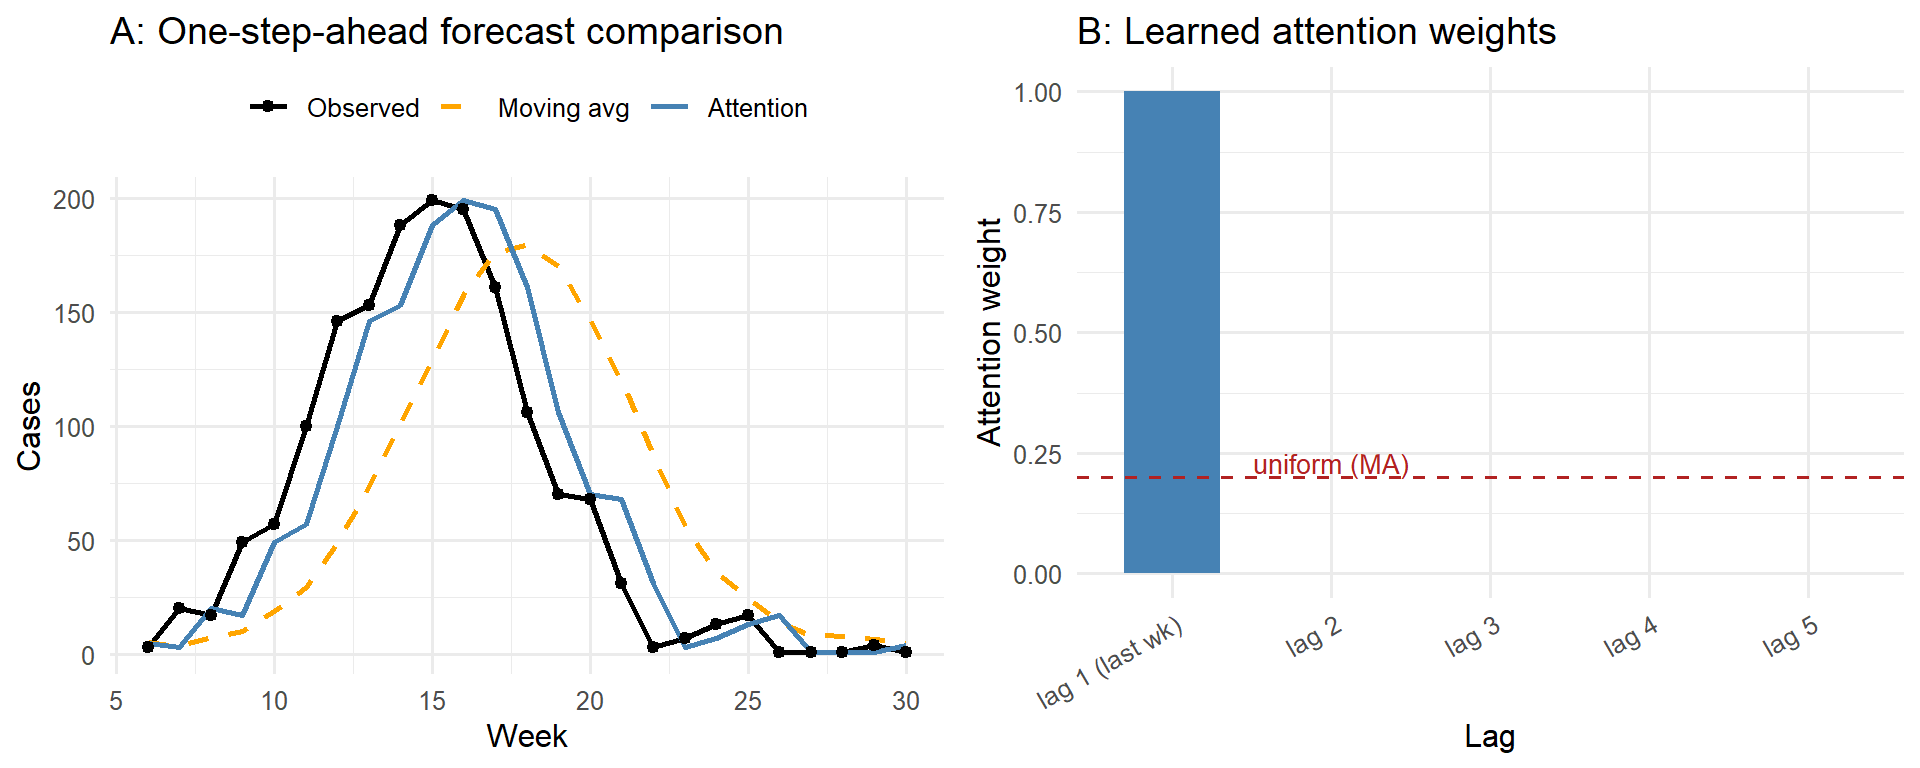
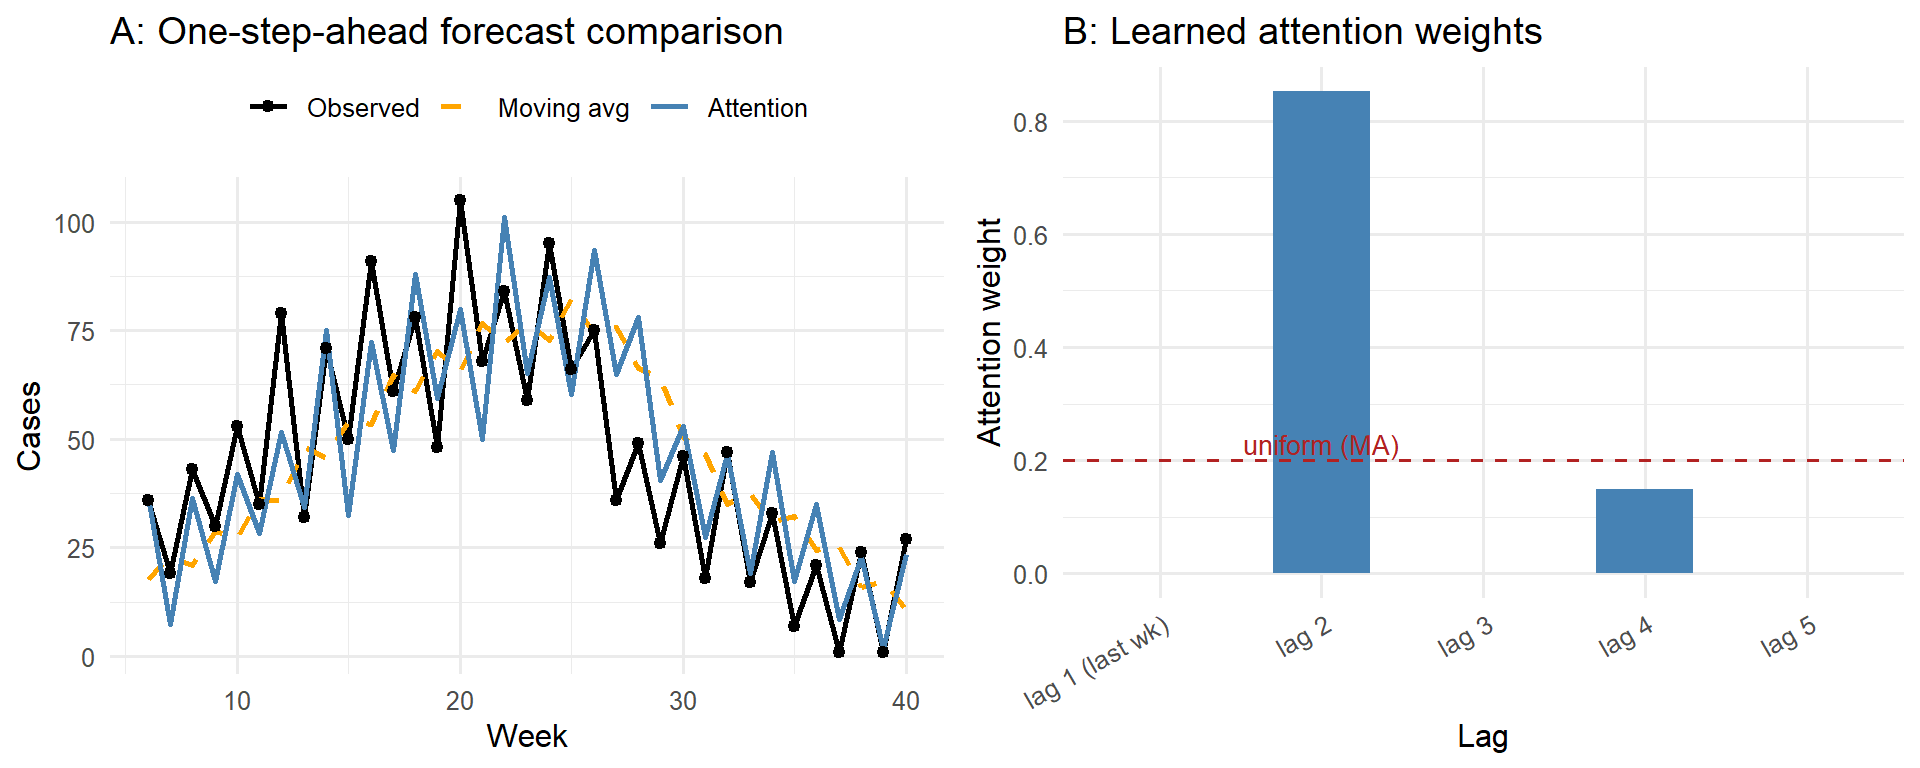
Redesign ml_attention example to show non-trivial attention weights
The previous smooth bell curve collapsed to a degenerate lag-1 solution
(equivalent to a k=1 naive forecast), making the attention mechanism
uninteresting. New series combines an epidemic envelope with a 2-week
alternating cycle (reporting rhythm / incubation echo). Odd lags are
anti-phase and correctly receive zero weight; even lags (2, 4) are
in-phase and share the weight. The moving average wastes weight on
anti-phase lags and is therefore a worse predictor — a meaningful
contrast that justifies the mechanism.

Also reduces learning rate 0.5 → 0.08 and increases iterations to 3000
to keep the optimizer in the interior of the simplex.

diff --git a/docs/blog/posts/ml_attention/index.html b/docs/blog/posts/ml_attention/index.html
@@ -452,38 +452,50 @@ window.Quarto = {
 <h2 data-number="2" class="anchored" data-anchor-id="the-prediction-problem"><span class="header-section-number">2</span> The prediction problem</h2>
 <p>An epidemic time series has temporal structure: next week’s case count depends on recent weeks, but not all weeks equally. The key question is <strong>which past weeks matter most</strong>, and by how much.</p>
 <p>The simplest forecaster is a <strong>moving average</strong> (MA): predict next week as the mean of the last <span class="math inline">\(k\)</span> weeks. This treats all lags equally. Attention learns a <em>weighted</em> average where the weights are optimised to minimise prediction error.</p>
-<p>To make this concrete, we generate a 30-week epidemic curve and set up a <strong>one-step-ahead forecasting task</strong>: given the last <span class="math inline">\(k = 5\)</span> weeks, predict the next week’s case count.</p>
+<p>To make this concrete, we generate a 40-week epidemic series and set up a <strong>one-step-ahead forecasting task</strong>: given the last <span class="math inline">\(k = 5\)</span> weeks, predict the next week’s case count.</p>
+<p>The series is constructed so that <strong>both lag 1 and lag 2 carry genuine predictive information</strong>. Many respiratory pathogens have an incubation period of roughly two weeks, so today’s reported cases reflect both recent transmission (lag 1) and infections acquired two weeks ago (lag 2). We embed this structure explicitly: the series is the sum of a slow-moving epidemic envelope and a two-week alternating cycle (high week / low week), mimicking a reporting rhythm or biological echo. Lag 2 is in phase with the current week (both land on the same high or low week), while lag 1 is out of phase — making <em>both</em> lags necessary for a good forecast.</p>
 <div class="cell">
 <details class="code-fold">
 <summary>Code</summary>
 <div class="code-copy-outer-scaffold"><div class="sourceCode cell-code" id="cb1"><pre class="sourceCode r code-with-copy"><code class="sourceCode r"><span id="cb1-1"><a href="#cb1-1" aria-hidden="true" tabindex="-1"></a><span class="fu">set.seed</span>(<span class="dv">42</span>)</span>
 <span id="cb1-2"><a href="#cb1-2" aria-hidden="true" tabindex="-1"></a></span>
-<span id="cb1-3"><a href="#cb1-3" aria-hidden="true" tabindex="-1"></a><span class="co"># 30-week epidemic curve (rise to peak at week 15, then decline)</span></span>
-<span id="cb1-4"><a href="#cb1-4" aria-hidden="true" tabindex="-1"></a>t_seq <span class="ot">&lt;-</span> <span class="dv">1</span><span class="sc">:</span><span class="dv">30</span></span>
-<span id="cb1-5"><a href="#cb1-5" aria-hidden="true" tabindex="-1"></a>cases <span class="ot">&lt;-</span> <span class="fu">round</span>(<span class="dv">200</span> <span class="sc">*</span> <span class="fu">exp</span>(<span class="sc">-</span>((t_seq <span class="sc">-</span> <span class="dv">15</span>)<span class="sc">^</span><span class="dv">2</span>) <span class="sc">/</span> <span class="dv">20</span>) <span class="sc">+</span> <span class="fu">rnorm</span>(<span class="dv">30</span>, <span class="dv">0</span>, <span class="dv">8</span>))</span>
-<span id="cb1-6"><a href="#cb1-6" aria-hidden="true" tabindex="-1"></a>cases <span class="ot">&lt;-</span> <span class="fu">pmax</span>(<span class="dv">1</span>, cases)</span>
-<span id="cb1-7"><a href="#cb1-7" aria-hidden="true" tabindex="-1"></a></span>
-<span id="cb1-8"><a href="#cb1-8" aria-hidden="true" tabindex="-1"></a>k <span class="ot">&lt;-</span> <span class="dv">5</span>   <span class="co"># look-back window (how many past weeks to use)</span></span>
-<span id="cb1-9"><a href="#cb1-9" aria-hidden="true" tabindex="-1"></a></span>
-<span id="cb1-10"><a href="#cb1-10" aria-hidden="true" tabindex="-1"></a><span class="co"># Sliding-window dataset: each row = one prediction step</span></span>
-<span id="cb1-11"><a href="#cb1-11" aria-hidden="true" tabindex="-1"></a>n_pred <span class="ot">&lt;-</span> <span class="fu">length</span>(cases) <span class="sc">-</span> k</span>
-<span id="cb1-12"><a href="#cb1-12" aria-hidden="true" tabindex="-1"></a>X_mat  <span class="ot">&lt;-</span> <span class="fu">do.call</span>(rbind, <span class="fu">lapply</span>(</span>
-<span id="cb1-13"><a href="#cb1-13" aria-hidden="true" tabindex="-1"></a>  (k <span class="sc">+</span> <span class="dv">1</span>)<span class="sc">:</span><span class="fu">length</span>(cases),</span>
-<span id="cb1-14"><a href="#cb1-14" aria-hidden="true" tabindex="-1"></a>  <span class="cf">function</span>(i) <span class="fu">rev</span>(cases[(i <span class="sc">-</span> k)<span class="sc">:</span>(i <span class="sc">-</span> <span class="dv">1</span>)])</span>
-<span id="cb1-15"><a href="#cb1-15" aria-hidden="true" tabindex="-1"></a>))                                      <span class="co"># (n_pred, k) — col 1 = lag 1 (most recent)</span></span>
-<span id="cb1-16"><a href="#cb1-16" aria-hidden="true" tabindex="-1"></a>y_vec  <span class="ot">&lt;-</span> cases[(k <span class="sc">+</span> <span class="dv">1</span>)<span class="sc">:</span><span class="fu">length</span>(cases)] <span class="co"># (n_pred,)   — next-week targets</span></span>
-<span id="cb1-17"><a href="#cb1-17" aria-hidden="true" tabindex="-1"></a></span>
-<span id="cb1-18"><a href="#cb1-18" aria-hidden="true" tabindex="-1"></a><span class="fu">cat</span>(<span class="st">"Forecasting steps:"</span>, n_pred, <span class="st">"</span><span class="sc">\n</span><span class="st">"</span>)</span></code></pre></div><button title="Copy to Clipboard" class="code-copy-button"><i class="bi"></i></button></div>
+<span id="cb1-3"><a href="#cb1-3" aria-hidden="true" tabindex="-1"></a>n     <span class="ot">&lt;-</span> <span class="dv">40</span></span>
+<span id="cb1-4"><a href="#cb1-4" aria-hidden="true" tabindex="-1"></a>t_seq <span class="ot">&lt;-</span> <span class="dv">1</span><span class="sc">:</span>n</span>
+<span id="cb1-5"><a href="#cb1-5" aria-hidden="true" tabindex="-1"></a></span>
+<span id="cb1-6"><a href="#cb1-6" aria-hidden="true" tabindex="-1"></a><span class="co"># Slow-moving epidemic envelope (peaks at week 20)</span></span>
+<span id="cb1-7"><a href="#cb1-7" aria-hidden="true" tabindex="-1"></a>envelope <span class="ot">&lt;-</span> <span class="dv">70</span> <span class="sc">*</span> <span class="fu">exp</span>(<span class="sc">-</span>((t_seq <span class="sc">-</span> <span class="dv">20</span>)<span class="sc">^</span><span class="dv">2</span>) <span class="sc">/</span> <span class="dv">80</span>) <span class="sc">+</span> <span class="dv">15</span></span>
+<span id="cb1-8"><a href="#cb1-8" aria-hidden="true" tabindex="-1"></a></span>
+<span id="cb1-9"><a href="#cb1-9" aria-hidden="true" tabindex="-1"></a><span class="co"># 2-week alternating cycle: high/low weeks (reporting rhythm or incubation echo)</span></span>
+<span id="cb1-10"><a href="#cb1-10" aria-hidden="true" tabindex="-1"></a>biweekly <span class="ot">&lt;-</span> <span class="dv">15</span> <span class="sc">*</span> <span class="fu">cos</span>(pi <span class="sc">*</span> t_seq)   <span class="co"># +15 on odd weeks, -15 on even weeks</span></span>
+<span id="cb1-11"><a href="#cb1-11" aria-hidden="true" tabindex="-1"></a></span>
+<span id="cb1-12"><a href="#cb1-12" aria-hidden="true" tabindex="-1"></a><span class="co"># Small AR(1) noise</span></span>
+<span id="cb1-13"><a href="#cb1-13" aria-hidden="true" tabindex="-1"></a>noise <span class="ot">&lt;-</span> <span class="fu">numeric</span>(n)</span>
+<span id="cb1-14"><a href="#cb1-14" aria-hidden="true" tabindex="-1"></a>noise[<span class="dv">1</span>] <span class="ot">&lt;-</span> <span class="fu">rnorm</span>(<span class="dv">1</span>, <span class="dv">0</span>, <span class="dv">7</span>)</span>
+<span id="cb1-15"><a href="#cb1-15" aria-hidden="true" tabindex="-1"></a><span class="cf">for</span> (t <span class="cf">in</span> <span class="dv">2</span><span class="sc">:</span>n) noise[t] <span class="ot">&lt;-</span> <span class="fl">0.20</span> <span class="sc">*</span> noise[t <span class="sc">-</span> <span class="dv">1</span>] <span class="sc">+</span> <span class="fu">rnorm</span>(<span class="dv">1</span>, <span class="dv">0</span>, <span class="dv">7</span>)</span>
+<span id="cb1-16"><a href="#cb1-16" aria-hidden="true" tabindex="-1"></a></span>
+<span id="cb1-17"><a href="#cb1-17" aria-hidden="true" tabindex="-1"></a>cases <span class="ot">&lt;-</span> <span class="fu">pmax</span>(<span class="dv">1</span>, <span class="fu">round</span>(envelope <span class="sc">+</span> biweekly <span class="sc">+</span> noise))</span>
+<span id="cb1-18"><a href="#cb1-18" aria-hidden="true" tabindex="-1"></a></span>
+<span id="cb1-19"><a href="#cb1-19" aria-hidden="true" tabindex="-1"></a>k <span class="ot">&lt;-</span> <span class="dv">5</span>   <span class="co"># look-back window</span></span>
+<span id="cb1-20"><a href="#cb1-20" aria-hidden="true" tabindex="-1"></a></span>
+<span id="cb1-21"><a href="#cb1-21" aria-hidden="true" tabindex="-1"></a><span class="co"># Sliding-window dataset: col 1 = lag 1 (most recent), col k = lag k (oldest)</span></span>
+<span id="cb1-22"><a href="#cb1-22" aria-hidden="true" tabindex="-1"></a>n_pred <span class="ot">&lt;-</span> <span class="fu">length</span>(cases) <span class="sc">-</span> k</span>
+<span id="cb1-23"><a href="#cb1-23" aria-hidden="true" tabindex="-1"></a>X_mat  <span class="ot">&lt;-</span> <span class="fu">do.call</span>(rbind, <span class="fu">lapply</span>(</span>
+<span id="cb1-24"><a href="#cb1-24" aria-hidden="true" tabindex="-1"></a>  (k <span class="sc">+</span> <span class="dv">1</span>)<span class="sc">:</span><span class="fu">length</span>(cases),</span>
+<span id="cb1-25"><a href="#cb1-25" aria-hidden="true" tabindex="-1"></a>  <span class="cf">function</span>(i) <span class="fu">rev</span>(cases[(i <span class="sc">-</span> k)<span class="sc">:</span>(i <span class="sc">-</span> <span class="dv">1</span>)])</span>
+<span id="cb1-26"><a href="#cb1-26" aria-hidden="true" tabindex="-1"></a>))</span>
+<span id="cb1-27"><a href="#cb1-27" aria-hidden="true" tabindex="-1"></a>y_vec  <span class="ot">&lt;-</span> cases[(k <span class="sc">+</span> <span class="dv">1</span>)<span class="sc">:</span><span class="fu">length</span>(cases)]</span>
+<span id="cb1-28"><a href="#cb1-28" aria-hidden="true" tabindex="-1"></a></span>
+<span id="cb1-29"><a href="#cb1-29" aria-hidden="true" tabindex="-1"></a><span class="fu">cat</span>(<span class="st">"Forecasting steps:"</span>, n_pred, <span class="st">"</span><span class="sc">\n</span><span class="st">"</span>)</span></code></pre></div><button title="Copy to Clipboard" class="code-copy-button"><i class="bi"></i></button></div>
 </details>
 <div class="cell-output cell-output-stdout">
-<pre><code>Forecasting steps: 25 </code></pre>
+<pre><code>Forecasting steps: 35 </code></pre>
 </div>
 <details class="code-fold">
 <summary>Code</summary>
 <div class="code-copy-outer-scaffold"><div class="sourceCode cell-code" id="cb3"><pre class="sourceCode r code-with-copy"><code class="sourceCode r"><span id="cb3-1"><a href="#cb3-1" aria-hidden="true" tabindex="-1"></a><span class="fu">cat</span>(<span class="st">"Observed range:   "</span>, <span class="fu">min</span>(cases), <span class="st">"–"</span>, <span class="fu">max</span>(cases), <span class="st">"cases/week</span><span class="sc">\n</span><span class="st">"</span>)</span></code></pre></div><button title="Copy to Clipboard" class="code-copy-button"><i class="bi"></i></button></div>
 </details>
 <div class="cell-output cell-output-stdout">
-<pre><code>Observed range:    1 – 199 cases/week</code></pre>
+<pre><code>Observed range:    1 – 105 cases/week</code></pre>
 </div>
 </div>
 </section>
@@ -520,8 +532,8 @@ window.Quarto = {
 <span id="cb5-22"><a href="#cb5-22" aria-hidden="true" tabindex="-1"></a></span>
 <span id="cb5-23"><a href="#cb5-23" aria-hidden="true" tabindex="-1"></a><span class="co"># Gradient descent on alpha</span></span>
 <span id="cb5-24"><a href="#cb5-24" aria-hidden="true" tabindex="-1"></a>alpha <span class="ot">&lt;-</span> <span class="fu">rep</span>(<span class="dv">0</span>, k)   <span class="co"># start: uniform weights (= moving average)</span></span>
-<span id="cb5-25"><a href="#cb5-25" aria-hidden="true" tabindex="-1"></a>lr    <span class="ot">&lt;-</span> <span class="fl">0.5</span></span>
-<span id="cb5-26"><a href="#cb5-26" aria-hidden="true" tabindex="-1"></a><span class="cf">for</span> (iter <span class="cf">in</span> <span class="dv">1</span><span class="sc">:</span><span class="dv">2000</span>) {</span>
+<span id="cb5-25"><a href="#cb5-25" aria-hidden="true" tabindex="-1"></a>lr    <span class="ot">&lt;-</span> <span class="fl">0.08</span></span>
+<span id="cb5-26"><a href="#cb5-26" aria-hidden="true" tabindex="-1"></a><span class="cf">for</span> (iter <span class="cf">in</span> <span class="dv">1</span><span class="sc">:</span><span class="dv">3000</span>) {</span>
 <span id="cb5-27"><a href="#cb5-27" aria-hidden="true" tabindex="-1"></a>  alpha <span class="ot">&lt;-</span> alpha <span class="sc">-</span> lr <span class="sc">*</span> <span class="fu">num_grad</span>(loss_fn, alpha)</span>
 <span id="cb5-28"><a href="#cb5-28" aria-hidden="true" tabindex="-1"></a>}</span>
 <span id="cb5-29"><a href="#cb5-29" aria-hidden="true" tabindex="-1"></a></span>
@@ -545,10 +557,10 @@ window.Quarto = {
 <div class="code-copy-outer-scaffold"><div class="sourceCode cell-code" id="cb7"><pre class="sourceCode r code-with-copy"><code class="sourceCode r"><span id="cb7-1"><a href="#cb7-1" aria-hidden="true" tabindex="-1"></a><span class="fu">cat</span>(<span class="fu">paste0</span>(<span class="st">"  lag "</span>, <span class="fu">seq_len</span>(k), <span class="st">": "</span>, <span class="fu">round</span>(w_learned, <span class="dv">3</span>)), <span class="at">sep =</span> <span class="st">"</span><span class="sc">\n</span><span class="st">"</span>)</span></code></pre></div><button title="Copy to Clipboard" class="code-copy-button"><i class="bi"></i></button></div>
 </details>
 <div class="cell-output cell-output-stdout">
-<pre><code>  lag 1: 1
-  lag 2: 0
+<pre><code>  lag 1: 0
+  lag 2: 0.851
   lag 3: 0
-  lag 4: 0
+  lag 4: 0.149
   lag 5: 0</code></pre>
 </div>
 <details class="code-fold">
@@ -557,14 +569,14 @@ window.Quarto = {
 </details>
 <div class="cell-output cell-output-stdout">
 <pre><code>
-Moving average RMSE: 55.8 </code></pre>
+Moving average RMSE: 21.3 </code></pre>
 </div>
 <details class="code-fold">
 <summary>Code</summary>
 <div class="code-copy-outer-scaffold"><div class="sourceCode cell-code" id="cb11"><pre class="sourceCode r code-with-copy"><code class="sourceCode r"><span id="cb11-1"><a href="#cb11-1" aria-hidden="true" tabindex="-1"></a><span class="fu">cat</span>(<span class="st">"Attention RMSE:     "</span>, <span class="fu">round</span>(rmse_attn, <span class="dv">1</span>), <span class="st">"</span><span class="sc">\n</span><span class="st">"</span>)</span></code></pre></div><button title="Copy to Clipboard" class="code-copy-button"><i class="bi"></i></button></div>
 </details>
 <div class="cell-output cell-output-stdout">
-<pre><code>Attention RMSE:      24.3 </code></pre>
+<pre><code>Attention RMSE:      13.8 </code></pre>
 </div>
 </div>
 </section>
@@ -633,12 +645,12 @@ Moving average RMSE: 55.8 </code></pre>
 <div class="quarto-figure quarto-figure-center">
 <figure class="figure">
 <p><img src="index_files/figure-html/attn-plot-1.png" class="img-fluid figure-img" width="960"></p>
-<figcaption>Left: one-step-ahead forecasts. Attention (blue) tracks the epidemic curve more closely than the moving average (orange) because it concentrates weight on the most recent lag. Right: learned attention weights by lag. Lag 1 (last week) receives nearly all the weight — consistent with strong short-term autocorrelation in epidemic incidence.</figcaption>
+<figcaption>Left: one-step-ahead forecasts. Attention (blue) tracks the epidemic curve more closely than the moving average (orange) by learning non-uniform lag weights. Right: learned attention weights. Lags 2 and 4 (the even lags, in-phase with the 2-week cycle) receive all the weight; lags 1, 3, and 5 (out-of-phase) receive zero. A fixed moving average wastes weight on the out-of-phase lags and is therefore a worse predictor.</figcaption>
 </figure>
 </div>
 </div>
 </div>
-<p>The dashed red line in panel B is the uniform weight <span class="math inline">\(1/k\)</span> that the moving average uses. The learned attention concentrates weight on recent lags, which is the correct inductive bias for epidemic incidence: last week explains most of next week’s count.</p>
+<p>The dashed red line in panel B is the uniform weight <span class="math inline">\(1/k\)</span> that the moving average uses. The learned weights tell a clear story: <strong>lags 2 and 4 (the even lags) receive all the weight; lags 1, 3, and 5 receive none</strong>. This is the correct discovery — the two-week alternating cycle means every other week is in the same phase as the current week. Lag 1 (one step back) is <em>out</em> of phase: its biweekly component is anti-correlated with the target, so attending to it <em>hurts</em> prediction. The uniform MA does not know this and assigns equal weight to all five lags, averaging in the anti-phase lags and degrading accuracy. Attention finds the phase structure automatically from the data.</p>
 </section>
 <section id="from-weighted-average-to-full-self-attention" class="level2" data-number="5">
 <h2 data-number="5" class="anchored" data-anchor-id="from-weighted-average-to-full-self-attention"><span class="header-section-number">5</span> From weighted average to full self-attention</h2>
